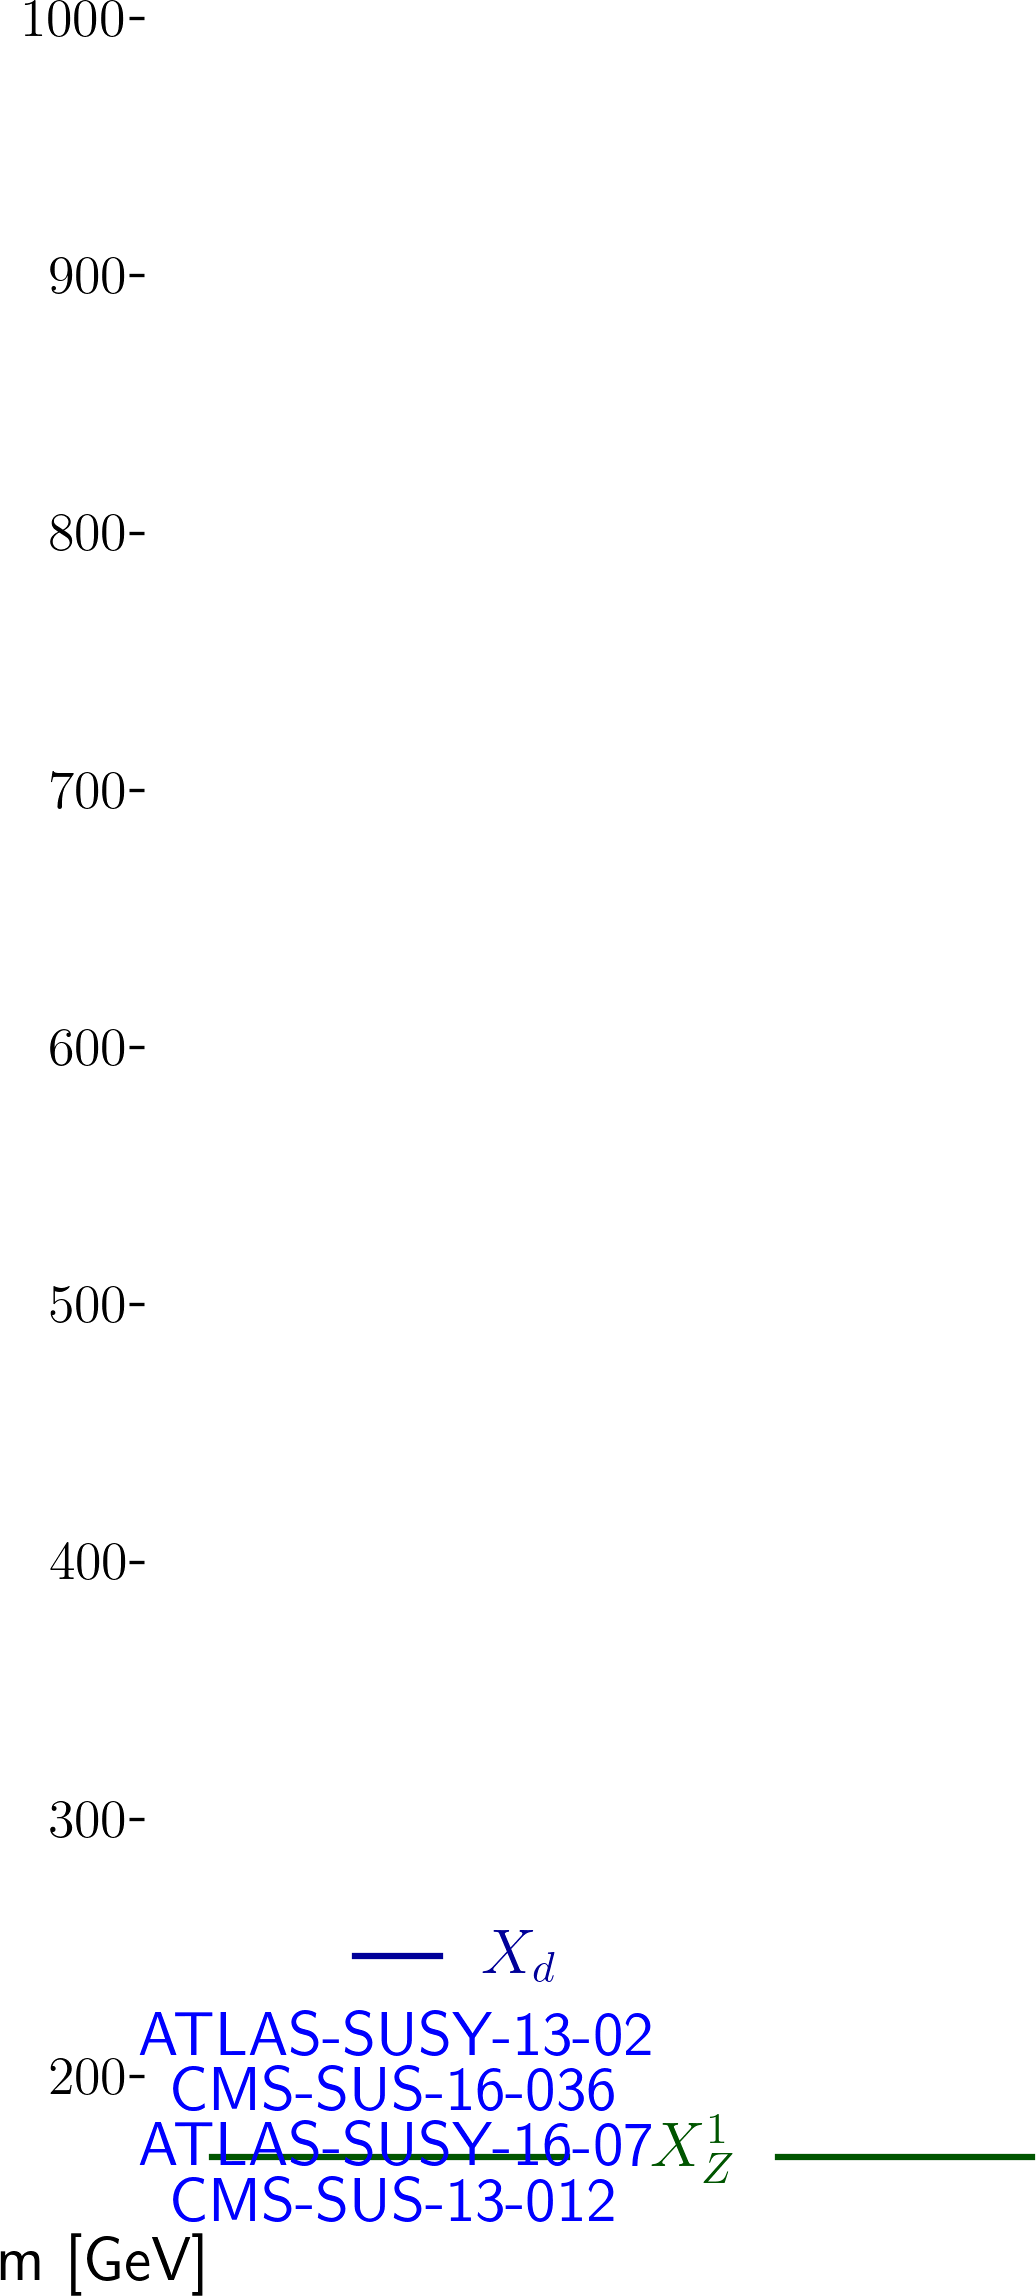
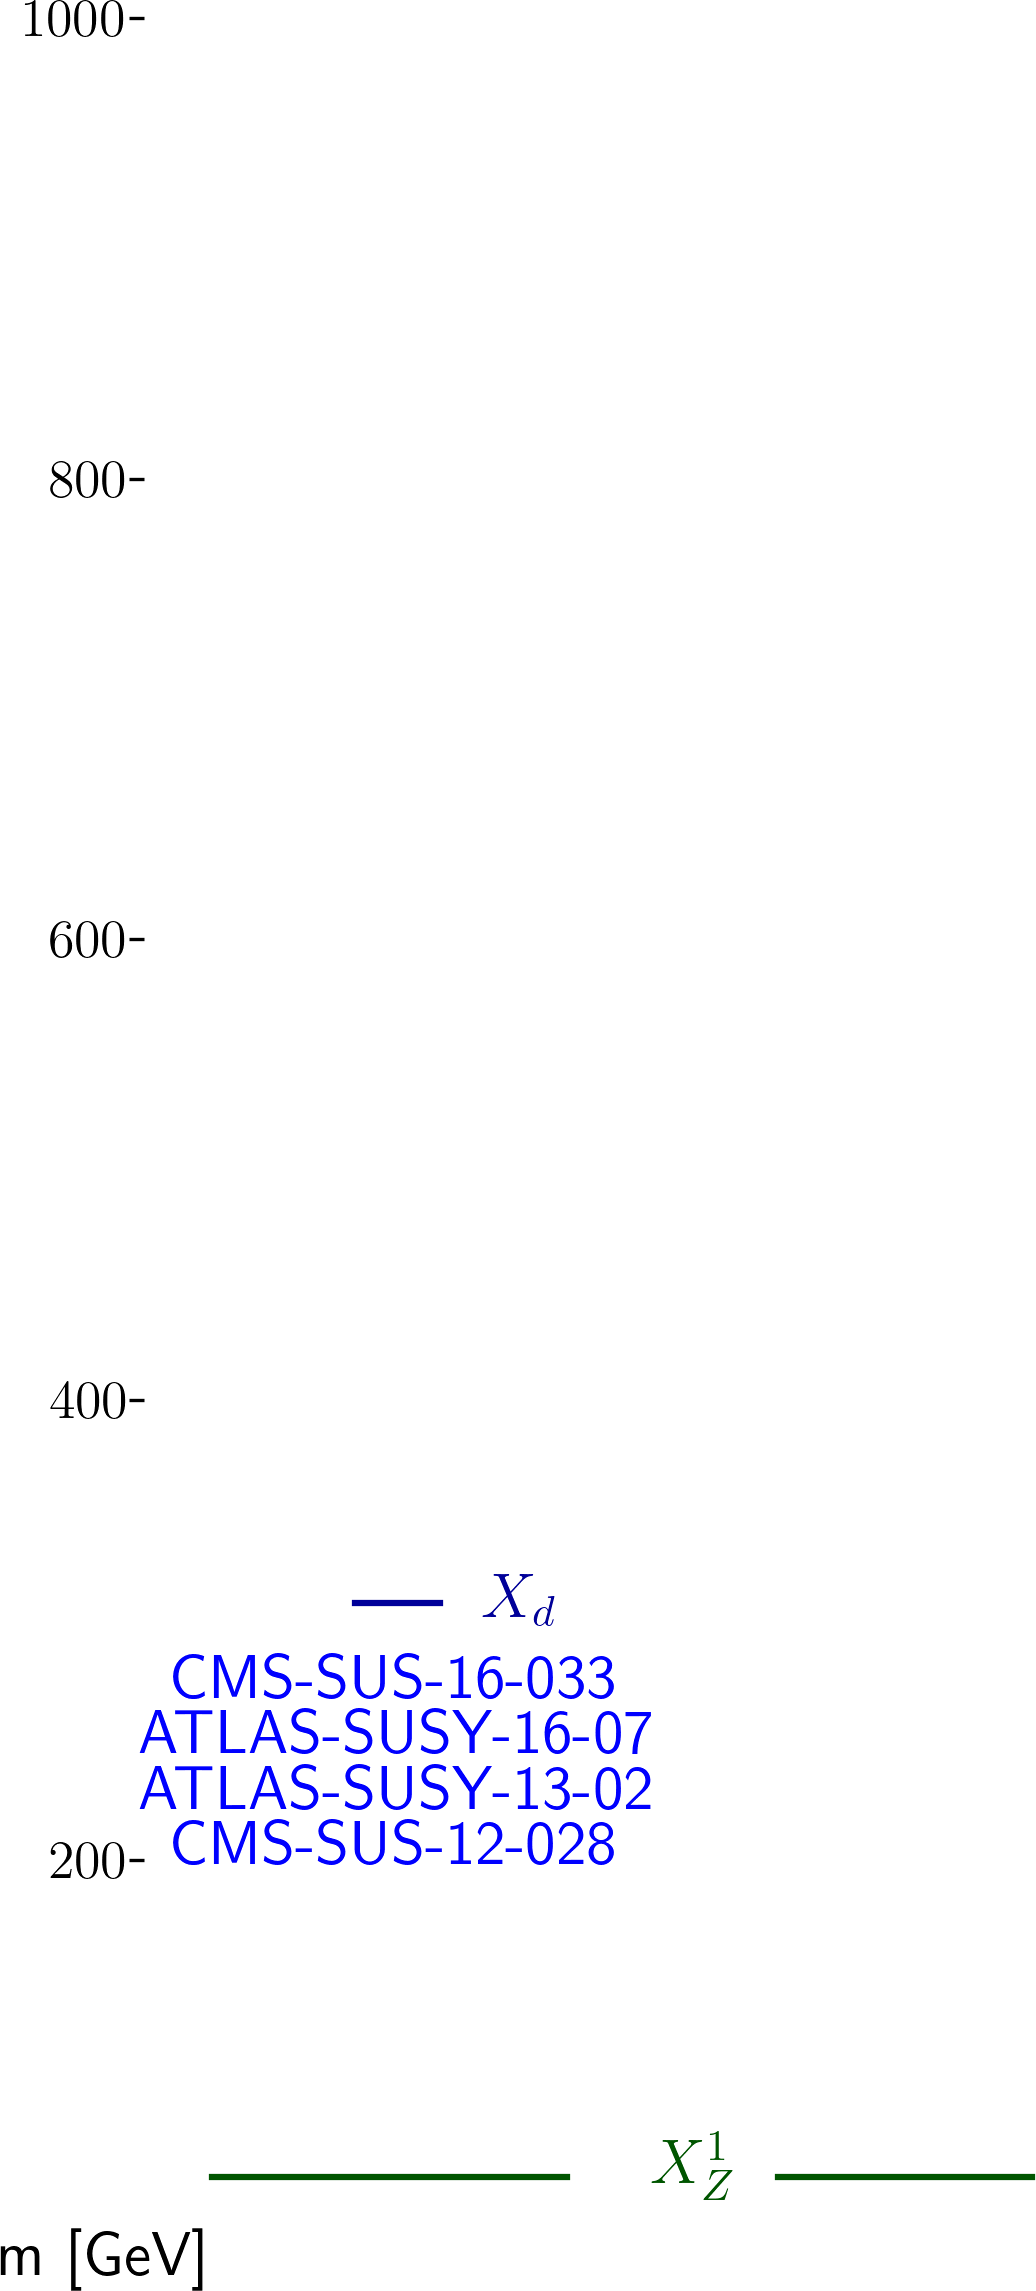
automated update by plotHiscore.py

diff --git a/protomodels/latest/index.html b/protomodels/latest/index.html
@@ -1,29 +1,28 @@
 <html>
 <body>
 <center>
-<table><td><h1>Current best protomodel: K=7.45</h1><td><img height=60px src=https://smodels.github.io/pics/banner.png></table>
+<table><td><h1>Current best protomodel: K=5.27</h1><td><img height=60px src=https://smodels.github.io/pics/banner.png></table>
 </center>
-<b><a href=./hiscore.slha>ProtoModel</a> <a href=./pmodel.py>(dict)</a> produced with <a href=https://smodels.github.io/docs/Validation124fake24>database v1.2.4fake24</a>, combination strategy <a href=./matrix_aggressive.png>aggressive</a> in walker 43 step 977.</b> K plots for: <a href=./M1000022.png?8719398>X<sub>Z</sub><sup>1</sup></a>, <a href=./M1000006.png?8719398>X<sub>t</sub></a>. HPD plots for: <a href=./llhd1000006.png?8719398>X<sub>t</sub></a>. SSM plots for: <a href=./ssm_-1000006_1000006.png?8719398>(x&#772;<sub>t</sub>,X<sub>t</sub>)</a><br>
+<b><a href=./hiscore.slha>ProtoModel</a> <a href=./pmodel.py>(dict)</a> produced with <a href=https://smodels.github.io/docs/Validation124fake9>database v1.2.4fake9</a>, combination strategy <a href=./matrix_aggressive.png>aggressive</a> in walker 20 step 445.</b> K plots for: <a href=./M1000022.png?8719406>X<sub>Z</sub><sup>1</sup></a>, <a href=./M1000021.png?8719406>X<sub>g</sub></a>. HPD plots for: <a href=./llhd1000021.png?8719406>X<sub>g</sub></a>. SSM plots for: <a href=./ssm_1000021_1000021.png?8719406>(X<sub>g</sub>,X<sub>g</sub>)</a><br>
 <table width=80%>
 <tr><td>
-<br><b>28 predictions available. Highest r values are:</b><br><ul>
-<li>CMS-SUS-19-006:T2tt r=1.30, r<sub>exp</sub>=0.84<br>
-<li>CMS-SUS-16-051:T2tt r=0.90, r<sub>exp</sub>=0.75<br>
-<li>CMS-SUS-17-010:T2tt r=0.59, r<sub>exp</sub>=0.15<br>
-<li>CMS-SUS-16-050:T2tt r=0.59, r<sub>exp</sub>=1.06<br>
-<li>CMS-SUS-16-033:T2tt r=0.58, r<sub>exp</sub>=0.59<br>
+<br><b>33 predictions available. Highest r values are:</b><br><ul>
+<li>CMS-SUS-16-037:T1tttt r=1.03, r<sub>exp</sub>=N/A<br>
+<li>CMS-SUS-16-050:T1tttt r=0.87, r<sub>exp</sub>=N/A<br>
+<li>CMS-SUS-16-033:T1tttt r=0.79, r<sub>exp</sub>=N/A<br>
+<li>CMS-SUS-19-006:T1tttt r=0.63, r<sub>exp</sub>=N/A<br>
+<li>CMS-SUS-16-042:T1tttt r=0.60, r<sub>exp</sub>=N/A<br>
 </ul>
 <td><br><b>K values without analyses: (contribution)</b><br>
 <ul>
-<li> <a href=>CMS-SUS-16-049</a>: -0.14 (23%)
-<li> <a href=>CMS-SUS-13-011</a>: -0.14 (23%)
-<li> <a href=>ATLAS-SUSY-2013-15</a>: -0.71 (25%)
-<li> <a href=>ATLAS-SUSY-2016-16</a>: -1.59 (28%)
-<td><img width=600px src=./texdoc.png?1601719398>
-<br><font size=-1>Last updated: Sat Oct  3 12:03:18 2020</font>
+<li> <a href=>CMS-SUS-19-006</a>: -1.40 (32%)
+<li> <a href=>ATLAS-SUSY-2013-04</a>: -1.41 (32%)
+<li> <a href=>CMS-SUS-12-024</a>: -2.24 (36%)
+<td><img width=600px src=./texdoc.png?1601719406>
+<br><font size=-1>Last updated: Sat Oct  3 12:03:26 2020</font>
 </table><table style="width:80%">
-<td width=45%><img height=580px src=./ruler.png?1601719398><td width=55%><img height=380px src=./decays.png?1601719398>
-<font size=-3><iframe type="text/html" height="220px" width="100%s" frameborder="0" src="./rawnumbers.html?1601719398"></iframe></font>
+<td width=45%><img height=580px src=./ruler.png?1601719406><td width=55%><img height=380px src=./decays.png?1601719406>
+<font size=-3><iframe type="text/html" height="220px" width="100%s" frameborder="0" src="./rawnumbers.html?1601719406"></iframe></font>
 </table>
 </body>
 </html>

diff --git a/protomodels/latest/rawnumbers.html b/protomodels/latest/rawnumbers.html
@@ -1,8 +1,7 @@
 <table>
 <tr><th>Analysis Name</th><th>Type</th><th>Dataset</th><th>Topos</th><th>Observed</th><th>Expected</th><th>Approx &sigma;</th><th>Particles</th>
 </tr>
-<tr><td>ATLAS-SUSY-2013-15</td><td>em</td> <td>tNboost</td><td>T2tt</td><td>5</td><td>3.3 +/- 0.7</td><td style="text-align:right">0.9 &sigma;</td><td style="text-align:right">X<sub>t</sub></td></tr>
-<tr><td>ATLAS-SUSY-2016-16</td><td>em</td> <td>tN_med</td><td>T2tt</td><td>48</td><td>36.3 +/- 6.6</td><td style="text-align:right">1.3 &sigma;</td><td style="text-align:right">X<sub>t</sub></td></tr>
-<tr><td>CMS-SUS-13-011</td><td>em</td> <td>LM150</td><td>T2tt</td><td>262</td><td>251 +/- 50</td><td style="text-align:right">0.2 &sigma;</td><td style="text-align:right">X<sub>t</sub></td></tr>
-<tr><td>CMS-SUS-16-049</td><td>ul</td> <td>-</td><td>T2tt</td><td> 25.7 fb </td><td> 11.3 fb</td><td style="text-align:right">2.5 &sigma;</td><td style="text-align:right">X<sub>t</sub></td></tr>
+<tr><td>ATLAS-SUSY-2013-04</td><td>em</td> <td>GtGrid_SR_8ij80 ...</td><td>T1tttt</td><td>1</td><td>0.9 +/- 0.6</td><td style="text-align:right">0.1 &sigma;</td><td style="text-align:right">X<sub>g</sub></td></tr>
+<tr><td>CMS-SUS-12-024</td><td>em</td> <td>MET4_HT4_nb3</td><td>T1tttt</td><td>4</td><td>2.1 +/- 1.1</td><td style="text-align:right">1.0 &sigma;</td><td style="text-align:right">X<sub>g</sub></td></tr>
+<tr><td>CMS-SUS-19-006</td><td>ul</td> <td>-</td><td>T1tttt</td><td> 4.7 fb </td><td> 2.1 fb</td><td style="text-align:right">2.4 &sigma;</td><td style="text-align:right">X<sub>g</sub></td></tr>
 </table>

diff --git a/protomodels/latest/pmodel.py b/protomodels/latest/pmodel.py
@@ -1,1 +1,1 @@
-{'masses': {1000022: 52.515, 1000001: 302.031}, 'ssmultipliers': {(1000022, 1000022): 0.0, (1000001, 1000001): 0.485, (-1000001, 1000001): 0.485, (-1000001, -1000001): 0.485, (1000001, 1000022): 0.485, (-1000001, 1000022): 0.485}, 'decays': {1000022: {}, 1000001: {(1000022, 1): 1.0}}, 'timestamp': 'Sat Oct  3 12:03:14 2020', 'Z': 3.264, 'K': 8.33, 'step': 815, 'codever': '1.0', 'dbver': '1.2.4fake12'}
+{'masses': {1000022: 131.706, 1000021: 1014.595}, 'ssmultipliers': {(1000022, 1000022): 0.0, (1000021, 1000021): 0.108, (1000021, 1000022): 0.12}, 'decays': {1000022: {}, 1000021: {(1000022, 6): 0.335, (1000022, 21): 0.343, (1000022, 1): 0.323}}, 'timestamp': 'Sat Oct  3 12:03:26 2020', 'Z': 2.525, 'K': 4.127, 'step': 876, 'codever': '1.0', 'dbver': '1.2.4fake22'}
